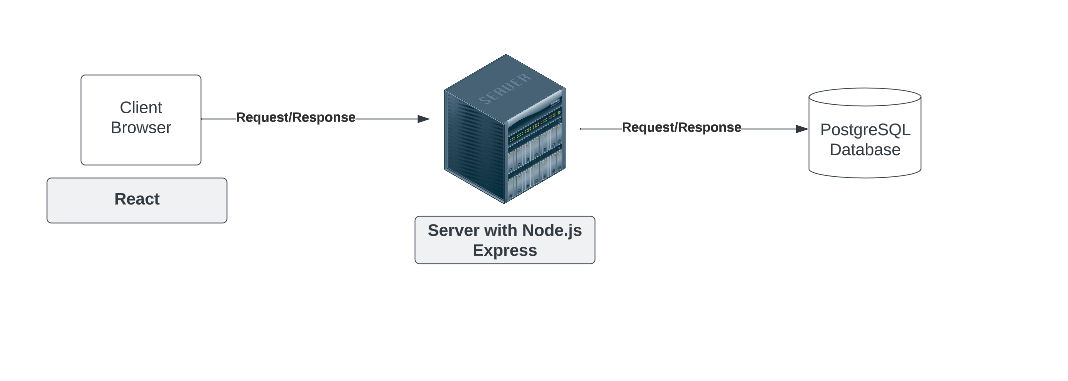
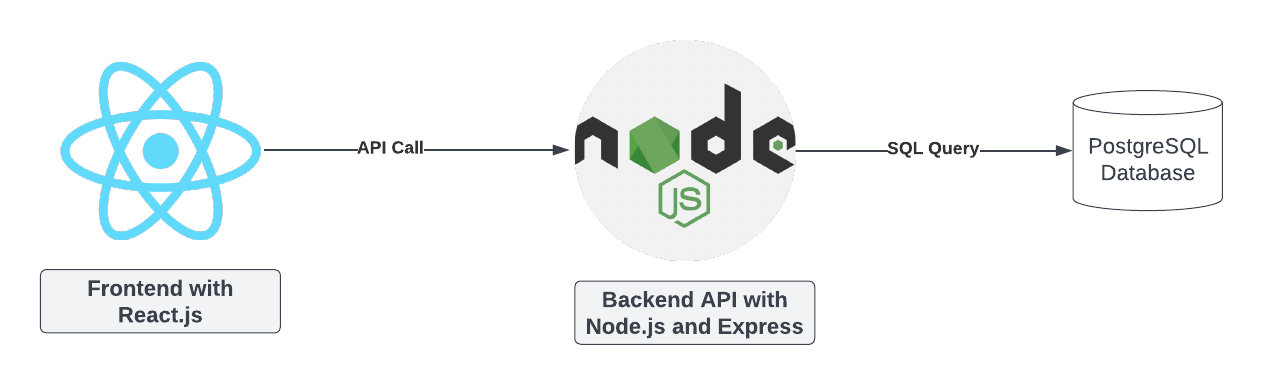
updated app architecture diagram

diff --git a/README.md b/README.md
@@ -1,6 +1,6 @@
 # Climbing Meetup App
 
-**URL Link:** _https://climbing-meetup.surge.sh/
+**URL Link:** https://climbing-meetup.surge.sh/
 
 **Overview:**
 
@@ -11,7 +11,8 @@ The Climbing Meetup App helps climbers facilitate climbing sessions with other c
  - **Database Schema Model:**
  ![db schema model](database_schema.png?raw=true  "database_schema")
 
-
+ - **Application Architecture:**
+ ![db schema model](app_architecture.png?raw=true  "database_schema")
 
 **Features Implemented:**
 
